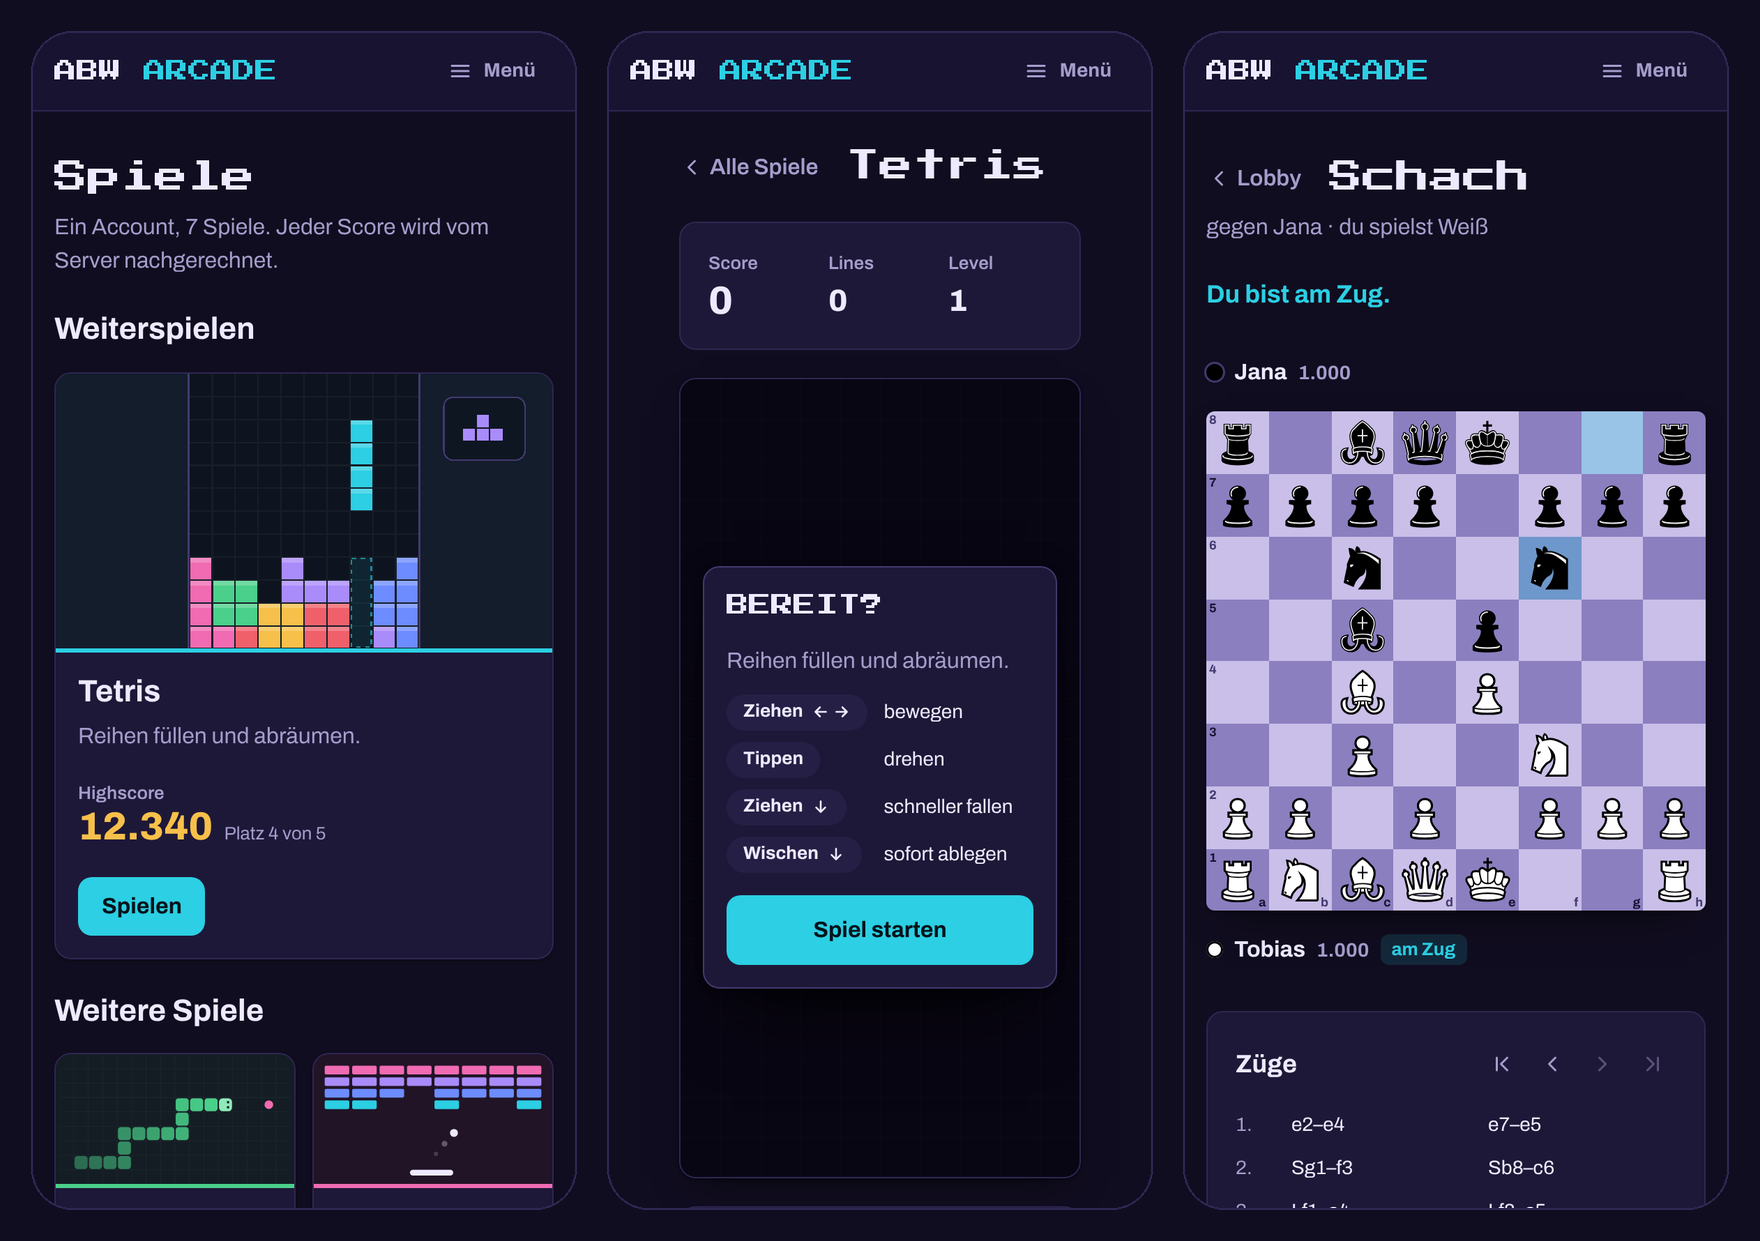
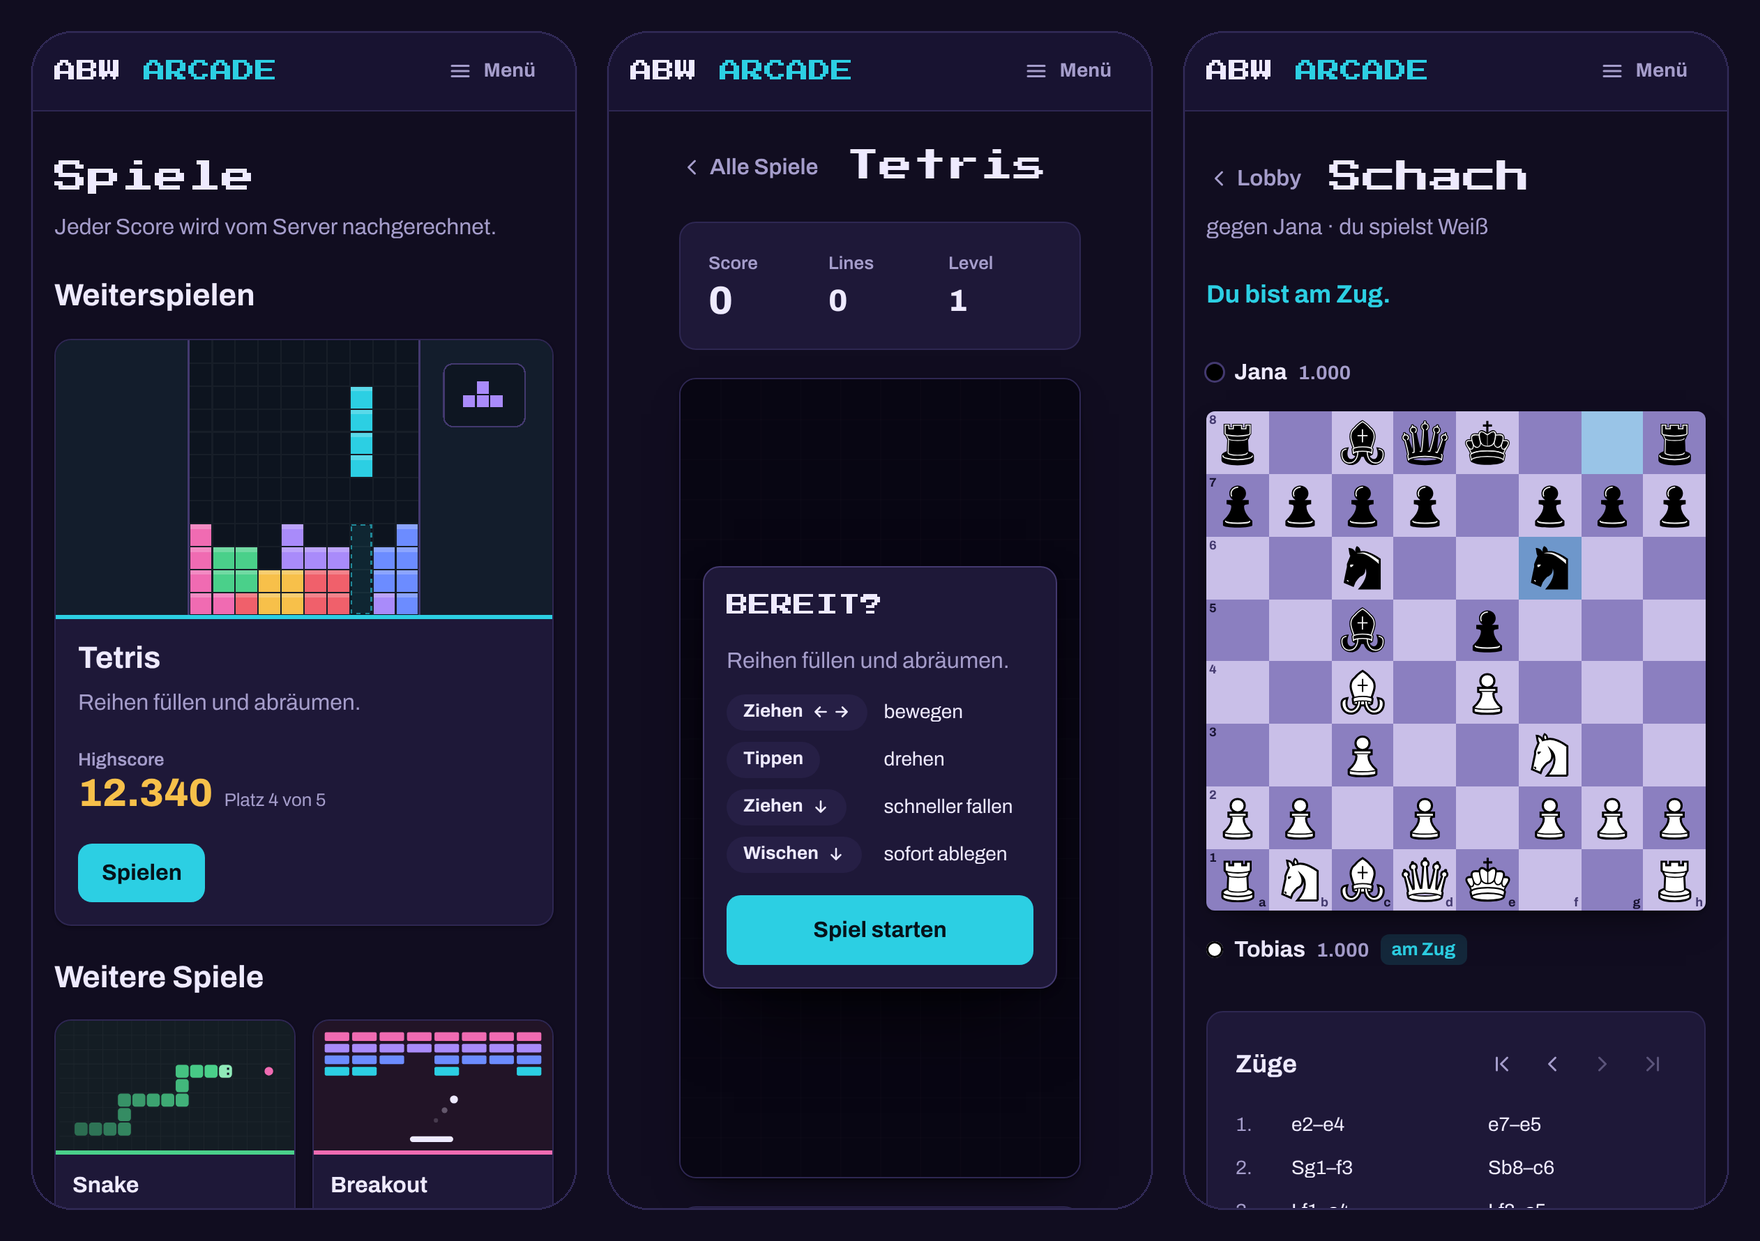
Texte ohne Spielzahl und ohne "ein Account"
Spieleuebersicht, Anmeldeseite, README sowie Banner und Social-Preview
nannten "sieben Spiele, ein Account". Mit weiteren Spielen wuerde die
Zahl falsch, und "ein Account" liess sich als ein gemeinsamer Account
fuer alle lesen.

- Spieleuebersicht: "Jeder Score wird vom Server nachgerechnet."
- Anmeldeseite: "Browser-Spiele mit Leaderboards. Jeder Score wird vom
  Server nachgerechnet."
- README: neue Einleitung ohne Zahl
- Banner und Social-Preview mit derselben Unterzeile wie die Uebersicht
- Testversion: Ersetzung an den neuen Untertitel angepasst
- Bilder von Uebersicht, Ergebniskarte und Handy-Ansicht neu aufgenommen

diff --git a/templates/login.html b/templates/login.html
@@ -7,7 +7,7 @@
   <div>
     <p class="wordmark" aria-hidden="true">ABW <span>ARCADE</span></p>
     <h1 class="section-title" id="login-title">Anmelden</h1>
-    <p class="auth-lead">Sieben Spiele, ein Account, Leaderboards, die der Server selbst nachrechnet.</p>
+    <p class="auth-lead">Browser-Spiele mit Leaderboards. Jeder Score wird vom Server nachgerechnet.</p>
   </div>
   {% include "_flash.html" %}
   <form method="post" class="form" autocomplete="on" novalidate>

diff --git a/templates/hub.html b/templates/hub.html
@@ -44,7 +44,7 @@
 {% block content %}
 <div class="page-head">
   <h1 class="page-title">Spiele</h1>
-  <p class="page-sub">Ein Account, {{ games|length }} Spiele. Jeder Score wird vom Server nachgerechnet.</p>
+  <p class="page-sub">Jeder Score wird vom Server nachgerechnet.</p>
   <p class="hub-keys"><kbd>1</kbd>–<kbd>{{ games|length }}</kbd> startet ein Spiel direkt</p>
 </div>
 

diff --git a/werkzeuge/testversion/bauen.py b/werkzeuge/testversion/bauen.py
@@ -115,8 +115,8 @@ def vorlagen_anpassen(b):
     b.ausschneiden(T + "_settings.html", """      <fieldset class="setting">\n        <legend>Schach</legend>""", "</fieldset>\n")
     b.ausschneiden(T + "_settings.html", """      <fieldset class="setting">\n        <legend>DOOM</legend>""", "</fieldset>\n")
     b.ersetzen(T + "hub.html",
-               "Ein Account, {{ games|length }} Spiele. Jeder Score wird vom Server nachgerechnet.",
-               "{{ games|length }} Spiele zum Testen, ganz ohne Server. Jeder Score wird lokal mit derselben Engine nachgerechnet.")
+               "Jeder Score wird vom Server nachgerechnet.",
+               "Testversion ohne Server. Jeder Score wird lokal mit derselben Engine nachgerechnet.")
     b.ausschneiden(T + "hub.html", """    <section class="panel hub-panel" aria-labelledby="chess-title">""", "    </section>\n")
     b.ersetzen(T + "hub.html", "Jeder Score ist vom Server nachgerechnet.", "Jeder Score ist lokal nachgerechnet.")
     b.ersetzen(T + "hub.html",

diff --git a/README.md b/README.md
@@ -2,9 +2,9 @@
 
 <img src="docs/bilder/banner.png" width="880" alt="ABW Arcade">
 
-Browser-Spiele zum Selbsthosten: sieben Spiele, ein Account für alle und
-Leaderboards, die der Server nachrechnet. ABW Arcade läuft als Dienst im
-eigenen Netz, ohne Werbung, Tracking oder externe Dienste.
+ABW Arcade ist eine Sammlung von Browser-Spielen zum Selbsthosten. Jeder Score
+wird vom Server nachgerechnet, bevor er ins Leaderboard kommt. Die Anwendung
+läuft als Dienst im eigenen Netz, ohne Werbung, Tracking oder externe Dienste.
 
 [![CI](https://github.com/utmwzar/ABW-Arcade/actions/workflows/ci.yml/badge.svg?branch=main)](https://github.com/utmwzar/ABW-Arcade/actions/workflows/ci.yml)
 
